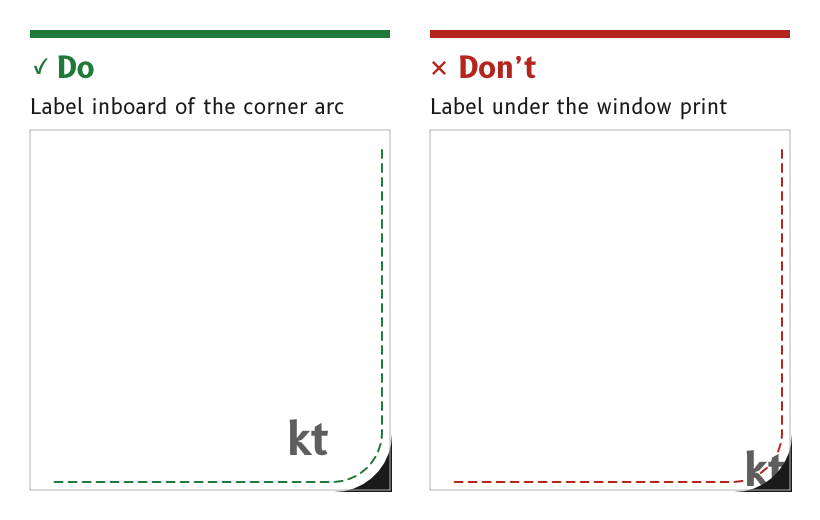
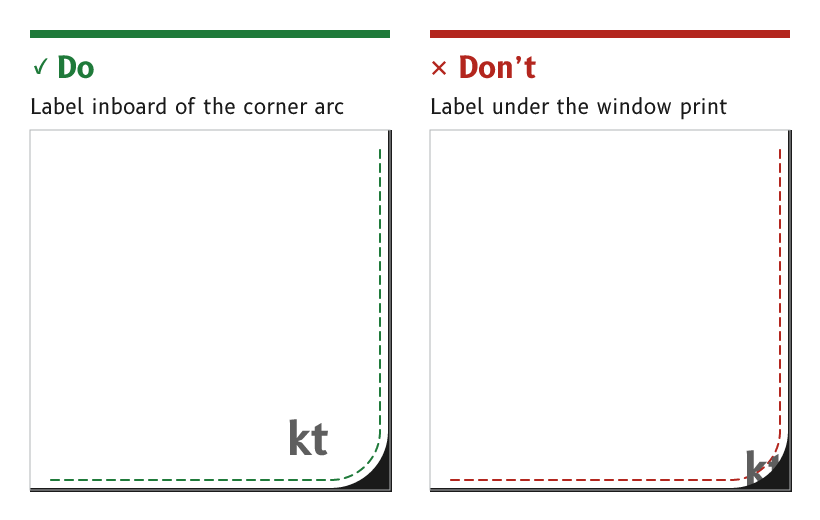
UX Guide: MDD500 safe area for the two-pixel cover-glass window
The MDD500 window is 90.86 mm square with 7.25 mm corner radii, two
pixels inside the active area. Each corner is an arc of 57 px radius
centred 59 px in. The platforms table loses four stray cells left from
the retired 4 in product.

Changed region(s): [[0.0305, 0.2462, 0.4878, 0.9538], [0.5183, 0.2462, 0.9756, 0.9538]]

diff --git a/ux-guide/platforms/mdd500.md b/ux-guide/platforms/mdd500.md
@@ -15,9 +15,10 @@ The MDD500 shows the 720 × 720 canvas on a 5.08 in panel with an active area 91
 
 ## Keep clear of the rounded corners
 
-The visible window is the black print on the cover glass, 91.77 mm square with 7.34 mm corner radii. On the canvas each corner is an arc of 58 px radius centred 56 px in from both edges, and text and touch targets stay at least 8 px inside it. This is the safe area every layout follows, described under [Layout](../foundations/layout.md#keep-text-and-touch-targets-inside-the-corner-safe-area).
+The visible window is the print on the cover glass, 90.86 mm square with 7.25 mm corner radii. It sits two pixels inside the active area, so the print covers 2 px along each canvas edge. On the canvas each corner is an arc of 57 px radius centred 59 px in from both edges, and text and touch targets stay at least 8 px inside it. This is the safe area every layout follows, described under [Layout](../foundations/layout.md#keep-text-and-touch-targets-inside-the-corner-safe-area).
 
-- *Custom glass.* The proposed custom cover glass keeps the stock window and changes only the outline, adding a separate window for the ambient light sensor, so the safe area holds for both.
+- *Reason.* A window larger than the active area shows the unlit border of the panel as a frame, and any misalignment of the glass makes that frame uneven. Two pixels are 0.25 mm, which covers the supplier's print registration tolerance of 0.2 mm.
+- *Stock glass.* The stock cover glass has a larger window, 91.77 mm square with 7.34 mm corner radii, so a layout that clears the custom window also clears the stock one.
 - *Source.* `ux/specs/pages/common.md`, safe area.
 
 ## Use the backlight as the night dimmer

diff --git a/ux-guide/foundations/layout.md b/ux-guide/foundations/layout.md
@@ -31,7 +31,7 @@ Every position, width, height and stroke is a whole pixel, and an edge that must
 
 Text and touch targets stay inside the MDD500 corner arcs, with a margin of at least 8 px. One layout serves both MIPI products, so every layout follows the MDD500 corners.
 
-- *The arcs.* The MDD500 window is the black print on its cover glass, 91.77 mm square with 7.34 mm corner radii. On the canvas each visible corner is an arc of 58 px radius centred 56 px in from both edges, and about 22 px of panel is hidden along each corner diagonal.
+- *The arcs.* The MDD500 window is the print on its cover glass, 90.86 mm square with 7.25 mm corner radii. The print covers 2 px along each canvas edge. On the canvas each visible corner is an arc of 57 px radius centred 59 px in from both edges, and about 26 px of panel is hidden along each corner diagonal.
 - *The 4 in display.* Its window is square and shows the whole canvas, so its corners may carry background artwork that has no meaning.
 - *Reason.* A label or a control in a corner is cut off on the MDD500. The wind page had to move its corner touch labels inboard for this reason.
 - *Template.* `ux/design/_template/safe_area_720.svg` draws the safe area for placing on a reference layer.

diff --git a/ux-guide/platforms/index.md b/ux-guide/platforms/index.md
@@ -20,10 +20,10 @@ The Foundations, Patterns and Components hold on every SCADYS display. The Platf
 | Pixels | 480 × 480 | 720 × 720 |
 | Design scale | Two-thirds | As drawn |
 | Pixel pitch | Not recorded here | 0.1269 mm |
-| Visible window | Not recorded here | 72.13 mm square, square corners | 91.77 mm square, 7.34 mm corner radii |
-| Brightness | Lower | 1,000 nit | 1,100 cd/m² typical |
-| Touch | DWIN touchscreen | Goodix GT911 | Jadard JD9365TX in-cell |
-| Rendering | DGUS pages and images | LVGL | LVGL |
+| Visible window | Not recorded here | 90.86 mm square, 7.25 mm corner radii |
+| Brightness | Lower | 1,100 cd/m² typical |
+| Touch | DWIN touchscreen | Jadard JD9365TX in-cell |
+| Rendering | DGUS pages and images | LVGL |
 
 - *Source.* MDD400 and MDD500 product identity, SCY-PROD-NOTE-MDD400-001 and SCY-PROD-NOTE-MDD500-001. `ux/specs/README.md` and `ux/specs/pages/common.md`, canvas and safe area. `ux/specs/interaction/touch.md`, water and spray.
 
